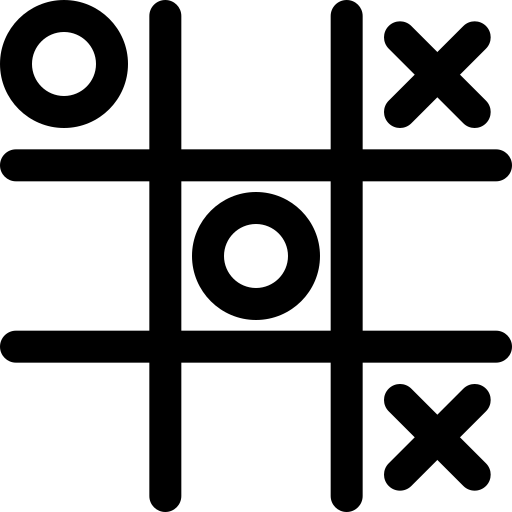
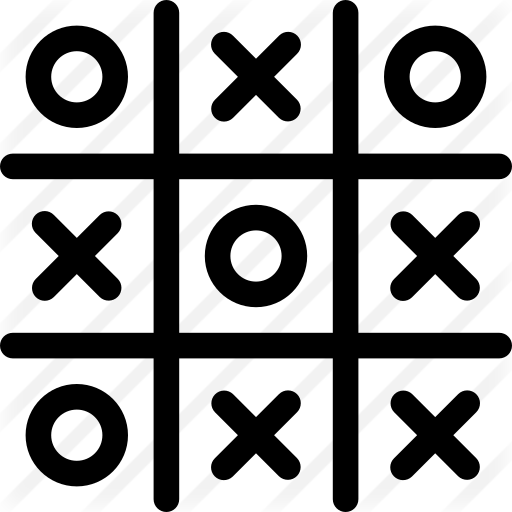
atualizado links das imagens e projetos

diff --git a/index.html b/index.html
@@ -43,7 +43,11 @@
           </section>
         </div>
         <div>
-          <img id="imagem" src="./assets/images/profile-pic.png" alt="" />
+          <img
+            id="imagem"
+            src="./assets/images/profile-pic.png"
+            alt="fotografia de Vanderlei Miguel"
+          />
         </div>
       </section>
     </header>
@@ -59,10 +63,8 @@
         </p>
         <br />
         <p>
-          Possuo 15 anos de experiência nas áreas de automação, manutenção e
-          engenharia, programando CLPs, IHMs, drives e robôs industriais,
-          utilizando linguagem ladder e stl, liderança de projetos e
-          treinamentos.
+          Possuo 15 anos de experiência nas áreas de automação e programação
+          industrial.
         </p>
         <br />
         <p>
@@ -80,16 +82,21 @@
           <a href="https://www.linkedin.com/in/vanderleimiguel/" target="_blank"
             ><img
               src="./assets/images/linkedin.png"
-              alt="link para acessar linkedin"
+              alt="link para contato linkedin"
           /></a>
           <a href="https://github.com/vanderleimiguel/" target="_blank"
             ><img
               src="./assets/images/github.png"
-              alt="link para acessar github"
+              alt="link para contato github"
             />
           </a>
           <a href="mailto:vanderleimigueljr@gmail.com" target="_blank"
-            ><img src="./assets/images/gmail.png" alt="link para acessar email"
+            ><img src="./assets/images/gmail.png" alt="link para contato email"
+          /></a>
+          <a href="https://wa.me/5548996845900" target="_blank"
+            ><img
+              src="./assets/images/whatsapp.png"
+              alt="link para contato whatsapp"
           /></a>
         </div>
       </section>
@@ -101,7 +108,10 @@
           <div class="card">
             <h3>Jokempo</h3>
             <figure>
-              <img src="./assets/images/node.png" alt="" />
+              <img
+                src="./assets/images/jokempo.png"
+                alt="figura representando o jogo jokempo"
+              />
             </figure>
             <p>NodeJS</p>
             <p></p>
@@ -117,7 +127,10 @@
           <div class="card">
             <h3>Jogo da Velha</h3>
             <figure>
-              <img src="./assets/images/node.png" alt="" />
+              <img
+                src="./assets/images/tictac.png"
+                alt="figura representando o jogo da velha"
+              />
             </figure>
             <p>NodeJS</p>
             <p></p>
@@ -133,7 +146,10 @@
           <div class="card">
             <h3>Ficção Interativa</h3>
             <figure>
-              <img src="./assets/images/node.png" alt="" />
+              <img
+                src="./assets/images/node.png"
+                alt="figura representando nodeJS"
+              />
             </figure>
             <p>NodeJS</p>
             <p></p>
@@ -148,14 +164,17 @@
           <div class="card">
             <h3>Tela de Login</h3>
             <figure>
-              <img src="./assets/images/node.png" alt="" />
+              <img
+                src="./assets/images/login.PNG"
+                alt="figura da tela de login criada"
+              />
             </figure>
             <p>HTML e CSS</p>
             <p></p>
 
             <a
               class="btnProj"
-              href="https://github.com/vanderleimiguel/Blue_Modulo1_Projetos/tree/main/Projeto2_Jokenpo"
+              href="https://github.com/vanderleimiguel/Projeto_Tela_Login"
               target="_blank"
               alt="link para projeto no github"
               >Acessar Repositorio</a
@@ -164,13 +183,16 @@
           <div class="card">
             <h3>Portifolio</h3>
             <figure>
-              <img src="./assets/images/node.png" alt="" />
+              <img
+                src="./assets/images/portifolio.png"
+                alt="figura representando um portifolio"
+              />
             </figure>
             <p>HTML, CSS e JavaScript</p>
 
             <a
               class="btnProj"
-              href="https://github.com/vanderleimiguel/Blue_Modulo1_Projetos/tree/main/Projeto2_Jokenpo"
+              href="https://github.com/vanderleimiguel/portifolio"
               target="_blank"
               alt="link para projeto no github"
               >Acessar Repositorio</a
@@ -192,7 +214,7 @@
           <img src="./assets/images/css-3.png" alt="Logotipo CSS" />
 
           <img src="./assets/images/git.png" alt="Logotipo GIT" />
-          <img src="./assets/images/visual-studio.png" alt="Logotipo VS" />
+          <img src="./assets/images/visual-studio.png" alt="Logotipo VS code" />
         </div>
       </section>
     </main>
